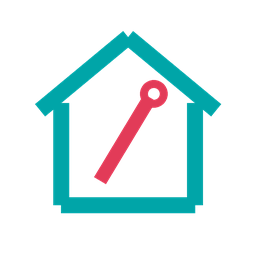
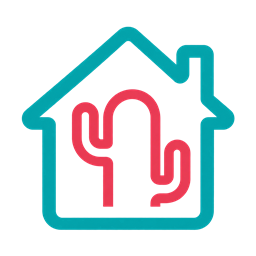
docs: clarify Assist usage and refresh cactus branding

Changed region(s): [[0.0625, 0.0938, 0.9375, 0.9062], [0.2812, 0.25, 0.3125, 0.2812], [0.25, 0.2812, 0.2812, 0.3125]]

diff --git a/scripts/generate_brand.py b/scripts/generate_brand.py
@@ -1,22 +1,16 @@
-"""Render the integration's original house/needle mark as a transparent PNG."""
+"""Build integration icon sizes from the house-and-cactus master image."""
 
 from pathlib import Path
 from shutil import copyfile
 
-from PIL import Image, ImageDraw
+from PIL import Image
 
 ROOT = Path(__file__).resolve().parents[1]
 
 
 def main():
-    image = Image.new("RGBA", (1024, 1024))
-    draw = ImageDraw.Draw(image)
-    draw.line([(160, 440), (512, 148), (864, 440)], fill="#00a5a8", width=64)
-    draw.line(
-        [(244, 412), (244, 820), (780, 820), (780, 412)], fill="#00a5a8", width=64
-    )
-    draw.line([(400, 722), (600, 390)], fill="#e23b58", width=56)
-    draw.ellipse((560, 320, 670, 430), outline="#e23b58", width=32)
+    with Image.open(ROOT / "assets/needle-home-assistant.png") as source:
+        image = source.convert("RGBA")
     path = ROOT / "custom_components/needle/brand"
     path.mkdir(parents=True, exist_ok=True)
     image.resize((256, 256), Image.Resampling.LANCZOS).save(path / "icon.png")

diff --git a/README.md b/README.md
@@ -1,86 +1,152 @@
 # Needle 3 for Home Assistant
 
-<img src="custom_components/needle/brand/icon.png" alt="Needle 3 house-and-needle icon" width="96" height="96">
+<img src="custom_components/needle/brand/icon.png" alt="Needle 3 house-and-cactus icon" width="96" height="96">
 
-A Home Assistant integration that uses [Cactus Compute Needle 3](https://github.com/cactus-compute/needle) to interpret home-control commands locally. Needle chooses the tools to call, and Home Assistant runs them through its built-in Assist API. It can only control entities you have exposed to Assist.
+Needle 3 Conversation is a local Home Assistant conversation agent built on [Cactus Compute Needle 3](https://github.com/cactus-compute/needle). It turns text commands into tool calls and runs them through Home Assistant's Assist API. Install it through HACS as an **Integration**, then select it as your assistant's conversation agent. It is not a Home Assistant add-on.
 
-Install it through HACS as an Integration. This project does not include a Home Assistant add-on.
+Direct device control uses entities exposed to Assist. You can also expose existing Home Assistant scripts as callable tools for routines you have already configured.
+
+This integration is experimental. Large tool catalogs can cause incorrect predictions or refusals, and inference can be slow on some hosts. Test with a small set of devices before using it for everyday control.
+
+## What is Needle 3?
+
+Needle 3 is a compact model designed for tool calling, structured extraction, and text embeddings. Rather than writing a chat reply, it selects functions and fills their arguments from a request. Cactus describes model variants with weights of 8-29 MB; that is the model file size, not the RAM this Home Assistant integration needs. See the [Needle project](https://github.com/cactus-compute/needle) for its architecture and deployment options.
+
+The Home Assistant integration uses the official model for tool calling. Its current workflow is:
+
+```text
+Your command -> Needle prediction -> validation -> Assist tools -> tool response
+```
+
+Home Assistant supplies the available tools and runs the actions. When a tool provides speech, the integration returns that response. Tools that query home context return structured data as text.
+
+## Why use Needle with Home Assistant?
+
+- Inference runs on your Home Assistant host after the initial download. You do not need a Cactus API key.
+- You can try model-based command interpretation without connecting the conversation agent to a hosted LLM service.
+- One request can produce several tool calls, such as turning one light on and another off.
+- Existing scripts can package a routine behind one named tool, with Home Assistant responsible for its conditions, delays, and actions.
+
+Home Assistant's built-in conversation agent already runs locally and handles standard commands. Needle's purpose here is to add model-based tool selection, not to promise faster or more accurate control. The integration checks confidence, tool names, and argument schemas before executing Needle's predictions, but those checks do not make every prediction correct.
+
+Needle's local inference does not make your entire voice pipeline local. Speech-to-text, text-to-speech, and device integrations still depend on the services you choose.
+
+## What can this integration do?
+
+| Task | Current behavior |
+| --- | --- |
+| Control exposed devices | Uses the tools available through Home Assistant Assist. |
+| Process several commands in one request | Accepts up to eight validated Needle tool calls and executes them in order. |
+| Start an existing routine | Can select an exposed script tool; model accuracy varies. |
+| Run a delayed command | Uses Home Assistant's built-in delayed-command handling. See the settings below. |
+| Use Needle inside an existing automation | Can receive text through the `conversation.process` action. |
+| Create or edit an automation from a prompt | Not implemented. |
+| Read a tool result and plan the next action | Not implemented. The integration makes one model prediction per request. |
+| General chat or pronoun follow-ups | Not supported. Name the target in each request. |
 
 ## What you need
 
 - Home Assistant 2026.9.0 or newer.
-- A host supported by `cactus-needle` 3.0.6. The SDK supports Linux x86-64 and ARM64, including musl builds used by Home Assistant containers, and Windows/macOS for development.
-- Internet access for the first model and engine download. Later requests run locally using the cached files. You do not need a Cactus API key.
-- HACS to install from GitHub, or access to your Home Assistant configuration directory for manual installation.
+- A host supported by `cactus-needle` 3.0.6: Linux x86-64 or ARM64, including musl builds used by Home Assistant containers. Windows and macOS are also supported by the SDK for development.
+- Internet access for the first model and engine download. Later inference uses cached files locally.
+- HACS, or access to your Home Assistant configuration directory for manual installation.
+
+The integration disables Needle telemetry. Your other Home Assistant services keep their own network and privacy settings.
 
 ## Install through HACS
 
-Install this project as a HACS custom repository using [HayderHekmat/needle-home-assistant](https://github.com/HayderHekmat/needle-home-assistant). It is not listed in the default HACS catalog.
+Add [HayderHekmat/needle-home-assistant](https://github.com/HayderHekmat/needle-home-assistant) as a HACS custom repository. It is not listed in the default HACS catalog.
 
 1. Open HACS in Home Assistant.
-2. Open the three-dot menu in the top-right corner and select Custom repositories.
-3. Enter `https://github.com/HayderHekmat/needle-home-assistant`, choose Integration, and select Add.
-4. Find Needle 3 Conversation in HACS and download it.
-5. Restart Home Assistant, then continue with the setup steps below.
+2. Open the three-dot menu and select **Custom repositories**.
+3. Enter `https://github.com/HayderHekmat/needle-home-assistant` and choose **Integration**.
+4. Select **Add**, find **Needle 3 Conversation**, and download it.
+5. Restart Home Assistant.
 
-These steps follow the [HACS custom repository instructions](https://www.hacs.xyz/docs/faq/custom_repositories/).
+See the [HACS custom repository instructions](https://www.hacs.xyz/docs/faq/custom_repositories/) for the installation menu.
 
 ### Manual installation
 
-Place the project's `custom_components/needle` directory at `/config/custom_components/needle` on your Home Assistant host. Restart Home Assistant, then follow the same setup steps as a HACS installation.
+Place the project's `custom_components/needle` directory at `/config/custom_components/needle` on your Home Assistant host, then restart Home Assistant. Continue with the same setup steps below.
 
-## Set up Needle in Home Assistant
+## Set up your assistant
 
-1. Go to Settings > Devices & services > Add integration.
-2. Search for Needle 3 Conversation and select it.
-3. Choose the minimum confidence. The default is 0.8; commands below this threshold will not run.
-4. Finish setup and wait for the official model and native engine to download and load.
+1. Go to **Settings > Devices & services > Add integration**.
+2. Search for **Needle 3 Conversation** and select it.
+3. Leave the minimum confidence at **0.8** for your first tests.
+4. Finish setup and allow the official model and native engine to download and load.
+5. Go to **Settings > Voice assistants > Expose** and expose the devices you want Assist to control. Start with one light or switch.
+6. Edit or add an assistant under **Settings > Voice assistants**, choose **Needle 3** as its conversation agent, and save.
 
-### Allow Assist to control your entities
+Use recognizable device names and aliases. An entity not exposed to Assist is unavailable for direct control. Home Assistant's [entity exposure guide](https://www.home-assistant.io/voice_control/voice_remote_expose_devices/) covers individual and bulk settings.
 
-1. Go to Settings > Voice assistants and open the Expose tab.
-2. Select the entities you want to control and expose them to Assist.
+For voice input, keep or configure your speech-to-text and text-to-speech services. Needle handles the command text, not audio. See Home Assistant's [voice assistant setup guide](https://www.home-assistant.io/voice_control/voice_remote_local_assistant/).
 
-Start with the lights you plan to test. An entity that is not exposed to Assist is unavailable to Needle. See Home Assistant's [entity exposure guide](https://www.home-assistant.io/voice_control/voice_remote_expose_devices/) for the individual and bulk exposure settings.
+### Prefer Home Assistant sentences
 
-### Choose Needle as the conversation agent
+Open Needle's options under **Settings > Devices & services** and enable **Prefer Home Assistant sentences** to try the built-in sentence recognizer first. It handles matching standard commands; Needle receives requests it does not recognize. This option is off by default.
 
-1. Under Settings > Voice assistants, edit the assistant you want to use or add an assistant.
-2. Choose Needle 3 in the Conversation agent field and save the assistant.
-3. Use that assistant when sending commands through Assist.
+This can avoid model misrouting and inference delays for familiar commands. It also applies when a timer sends its delayed action directly to the conversation agent. A command handled this way is executed by Home Assistant's built-in agent, not by the Needle model.
 
-Needle handles the text of your command. For spoken commands, your assistant still needs speech-to-text and text-to-speech services. You can keep your existing choices. Home Assistant's [voice assistant setup guide](https://www.home-assistant.io/voice_control/voice_remote_local_assistant/) explains these parts of the pipeline.
+The assistant's separate **Prefer handling commands locally** setting applies to the initial Assist pipeline request. Enable both settings when testing delayed commands.
 
-## Use Needle through Assist
+## Send your first commands
 
-Send a complete command that names the device or area you want to control. Try these with matching entities in your home:
+Open Assist and select the assistant configured with Needle. Start with text input so you can test device control separately from speech services.
+
+Use names that exist in your home:
 
 - "turn on the kitchen light"
 - "set the living room light brightness to 50 percent"
 - "turn on the kitchen light and turn off the bedroom light"
 
-Results depend on Needle's predictions and the entities and intents available in your installation. When a tool provides Home Assistant speech, Needle returns that response. Tools that query the current home context return their structured data as text.
+Check the actual device state after each command. A response alone is not proof that every intended action happened.
 
-Each request starts with fresh model context. Name the target again in your next command: follow-ups such as "turn it off" are not supported.
+Each Needle request starts with fresh model context. Say "turn off the kitchen light" in the next request rather than "turn it off".
 
-### Change the confidence threshold
+### Multiple commands in one request
 
-Open the Needle integration's options under Settings > Devices & services to change the minimum confidence. The default is 0.8. A higher threshold rejects more uncertain predictions; a lower threshold accepts more of them.
+Needle can predict a batch of independent actions. The integration validates the entire predicted batch before starting, accepts a maximum of eight calls, and runs them in model order. It stops at the first reported tool error.
 
-If Needle asks you to rephrase, try a shorter command with an explicit device or area name. Low or missing confidence, warnings about negation or ungrounded arguments, unknown tools, and invalid arguments all cause rejection before any action runs.
+A batch is not a transaction. If the first action succeeds and the second fails, the first remains applied. For a routine with dependencies, conditions, or delays, use an existing Home Assistant script instead of relying on a model to coordinate it.
 
-### Limits to expect
+### Delayed commands
 
-- Needle handles home-control tool calls. It does not provide general chat or generate automations.
-- This version uses the official model and does not support custom tuned weights.
-- The integration passes your input language to Assist, but Needle's accuracy across languages is not guaranteed.
-- A request can contain up to eight tool calls. They run in order and stop at the first reported tool error.
+With both local sentence settings enabled, try:
 
-Commands are not a transaction. If one action succeeds and a later action fails, the earlier action remains applied.
+```text
+Turn off Main Light in 20 seconds
+```
 
-## Troubleshoot rejected or delayed commands
+Replace "Main Light" with an exposed name from your home. Home Assistant schedules the delay, then sends the remaining command to the selected agent when the timer expires. Needle's **Prefer Home Assistant sentences** option lets that action use the built-in recognizer without waiting for model inference.
 
-If a command works with the built-in Home Assistant agent but not Needle, test Needle directly in Developer tools > Actions. Use YAML mode:
+The initial "Command will be executed" response confirms scheduling, not successful device control. Check the device after the delay. See Home Assistant's [supported delayed commands](https://www.home-assistant.io/voice_control/builtin_sentences/) for examples.
+
+## Use scripts for routines and automation
+
+You can give Needle access to routines you have already written. Home Assistant exposes scripts as tools, so a script can contain several actions, conditions, and delays while the conversation agent only needs to select its name.
+
+1. Create a script under **Settings > Automations & scenes > Scripts**.
+2. Give it a clear name, such as "Evening lights".
+3. Add a description of what it does, for example: "Turn off the kitchen light and set the living room light brightness to 30 percent."
+4. Open the script's settings and expose it to **Assist** under **Voice assistants**.
+5. Test the script manually, then try "Start Evening lights" through your assistant.
+
+Add descriptions to any script input fields too. Check the Assist tool-call trace to confirm that the intended script ran. Exposing a script grants access to its configured actions, so review the whole sequence before making it available. Follow Home Assistant's [guide to exposing scripts to conversation agents](https://www.home-assistant.io/voice_control/exposing_scripts_to_llms/).
+
+For recurring schedules or event-triggered rules, create an automation in Home Assistant. Needle does not create, save, or edit those rules. You can call the conversation agent from an existing automation using the same `conversation.process` action shown below, but direct Home Assistant actions are more predictable for a fixed routine: model requests can be rejected or delayed.
+
+### Is Needle an agentic automation agent?
+
+The Needle SDK supports a tool-result loop: select a tool, execute it, feed the result back, and select another action. Its [`run()` and `complete()` APIs](https://cactuscompute.com/blog/needle-python-docs) provide that capability.
+
+This integration currently uses `complete()` once per request. It executes the resulting calls, but does not feed their results into another model turn. Multiple calls are a batch, not a continuing plan. Requests that require checking a state and then deciding what to do should be expressed as a Home Assistant script with explicit conditions.
+
+A fuller agentic implementation would need a bounded tool-result loop and clear handling of dependent actions. Creating automations from prompts would also need a separate workflow to preview, validate, and approve the proposed rule before saving it. These are possible extensions, not features available in this release.
+
+## Test the conversation agent directly
+
+Open **Developer tools > Actions**, switch to YAML, and run:
 
 ```yaml
 action: conversation.process
@@ -90,45 +156,26 @@ data:
   text: "Turn off Main Light"
 ```
 
-Use your actual conversation entity ID and an exposed device name. This command controls the device; it is not a dry run. Testing directly bypasses the assistant's "Prefer handling commands locally" setting.
+Use your actual conversation entity ID and exposed device name. This performs an action; it is not a dry run. The same action can be a step in an existing Home Assistant automation.
 
-"Some commands could not be verified" means the SDK withheld one or more calls. The integration will not execute them, even if you lower its confidence threshold. This response alone does not identify why the SDK withheld the call.
+This bypasses the pipeline's local handling setting. To test the Needle model itself, also disable **Prefer Home Assistant sentences** in Needle's options. Inspect the returned response and the device state.
 
-With local handling enabled, Home Assistant can acknowledge a delayed command before Needle processes the action when the timer expires. That later response is not shown in the original pipeline trace. Since v0.1.3, rejections and tool failures are also logged so these background failures are visible.
+## Confidence and limitations
 
-To capture details, open Settings > Devices & services, find Needle 3 Conversation, and choose Enable debug logging from its menu. Repeat the direct test, then disable debug logging and download the log. Look for `Needle prediction` and `Needle rejected command`.
+Change the minimum confidence in Needle's options. The default is **0.8**. Raising it rejects more uncertain predictions; lowering it accepts more. The threshold applies to Needle predictions, not commands handled by the built-in sentence recognizer.
 
-Debug logs contain commands, tool arguments, and exposed home context, including device names. Review them for private information before sharing. The Hugging Face unauthenticated-request warning concerns download rate limits; it does not explain a rejected command.
+Low or missing confidence, suppressed calls, negation or grounding warnings, unknown tools, and invalid arguments cause rejection before Needle actions run. Lowering the integration's threshold does not restore calls the SDK has already suppressed.
 
-## Downloads and local processing
+- Large Assist tool catalogs can confuse tool selection. Native inference latency and RAM use depend on the host and request context; a small model file does not guarantee a fast or low-memory integration.
+- Needle handles tool calls rather than general conversation and does not replace speech-to-text or text-to-speech.
+- The integration passes the input language to Assist, but model accuracy across languages is not guaranteed.
+- This release uses official weights and does not support custom tuned models.
+- Tool responses may contain structured data rather than a conversational answer.
 
-During the first setup, the SDK downloads the official model and native runtime from the upstream distribution. It stores the files in its cache under the Home Assistant process's home directory. Later inference uses those cached files locally.
+## Troubleshooting
 
-Model loading and inference run in an executor, outside Home Assistant's event loop. Native calls run one at a time because Needle shares its runtime state across the process. The integration disables Needle telemetry by setting `NEEDLE_TELEMETRY=0` for the Home Assistant process.
+If a command works with the built-in agent but Needle asks you to rephrase, try the exact exposed device name and test the agent directly. You can enable **Prefer Home Assistant sentences** for standard commands while keeping Needle for unmatched requests. This is a workaround for model routing errors, not a change to model accuracy.
 
-## Publish a HACS repository
+To investigate a refusal, enable **debug logging** from the Needle integration's menu, repeat the failing command, then disable debug logging and download the capture. Look for `Needle prediction` and `Needle rejected command`. Debug logs contain commands, tool arguments, and exposed home details; review private information before sharing them in a [GitHub issue](https://github.com/HayderHekmat/needle-home-assistant/issues).
 
-These steps are for the project maintainer. Users installing an already published repository can skip this section.
-
-1. Run `python scripts/configure_repository.py YOUR_OWNER/YOUR_REPOSITORY` to set the manifest URLs and code owner.
-2. Push this project to that public GitHub repository.
-3. Publish a release matching the version in the integration manifest, or let HACS use the default branch.
-4. Use the repository URL in the HACS installation steps above.
-
-Publishing the repository makes it available for installation as a custom repository. It does not add it to the default HACS catalog.
-
-## Integration icon
-
-The integration includes a house-and-needle icon in `custom_components/needle/brand/`, with standard and high-resolution files for light and dark themes. Home Assistant 2026.3 and newer can load these [bundled brand images](https://developers.home-assistant.io/blog/2026/02/24/brands-proxy-api/).
-
-If the HACS repository list shows "icon not available", it may be the [HACS issue with bundled icons](https://github.com/hacs/integration/issues/5223). That list can still use the public icon CDN rather than the integration's local files. Adding another icon to this repository does not fix that HACS behavior.
-
-After downloading an integration update in HACS, restart Home Assistant and reload the page to load the installed branding.
-
-## Setup fails with a shared-library error
-
-If the log mentions `ld-linux-x86-64.so.2` or `strtoll_l` while loading `libneedle.so`, update this integration to v0.1.2 or newer in HACS and restart Home Assistant. Earlier versions pinned a Needle SDK that could choose a glibc library inside Home Assistant's musl-based container. The updated SDK detects musl and retries with the alternate library when loading fails.
-
-You do not need to delete the integration or its settings. On the next setup attempt, the SDK uses its updated engine cache and downloads the required files if they are missing. Setup errors now include the underlying failure message; check Settings > System > Logs if setup still fails.
-
-References: [Needle Python implementation](https://github.com/cactus-compute/needle/blob/main/needle/__init__.py), [Home Assistant LLM API](https://developers.home-assistant.io/docs/core/llm/), [HACS integration requirements](https://www.hacs.xyz/docs/publish/integration/).
+If setup fails while loading a shared library, install the latest integration release in HACS and restart Home Assistant. The Hugging Face unauthenticated-request warning concerns download rate limits; an API token is not required for normal use.
